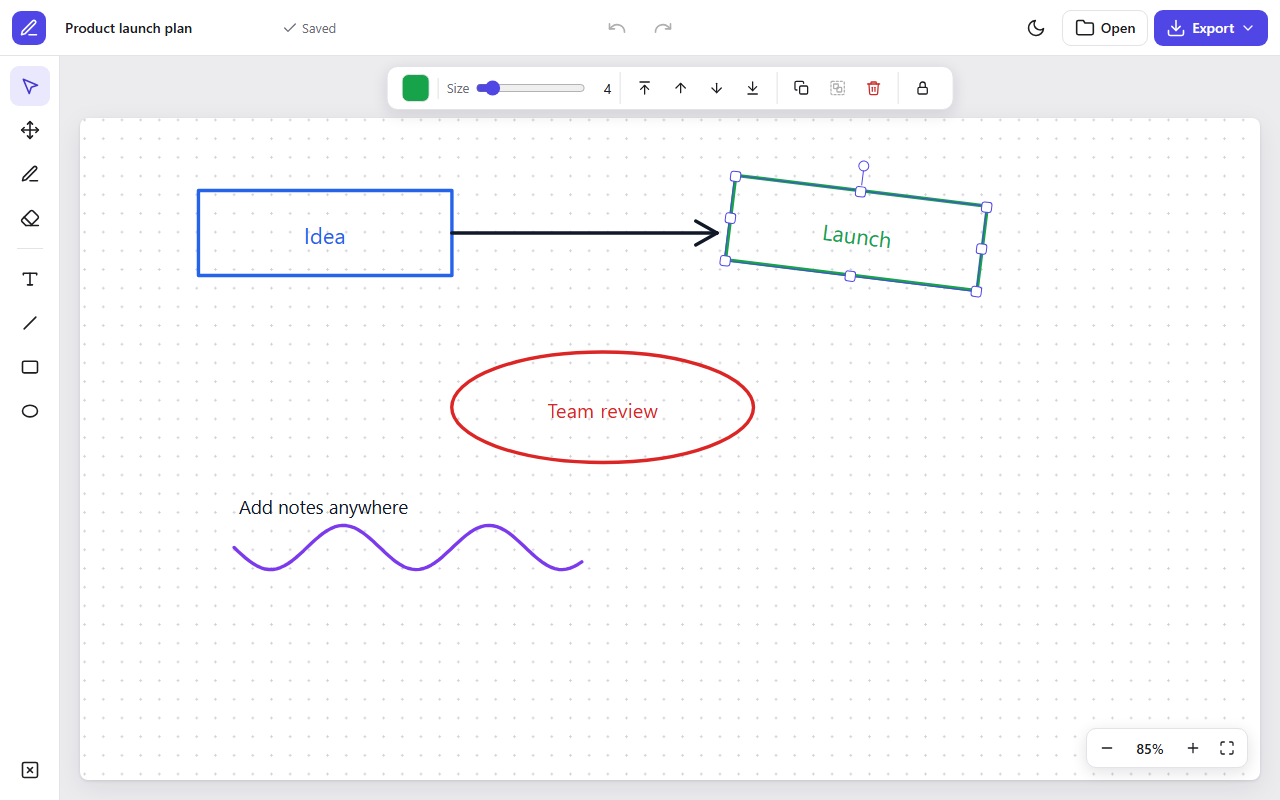
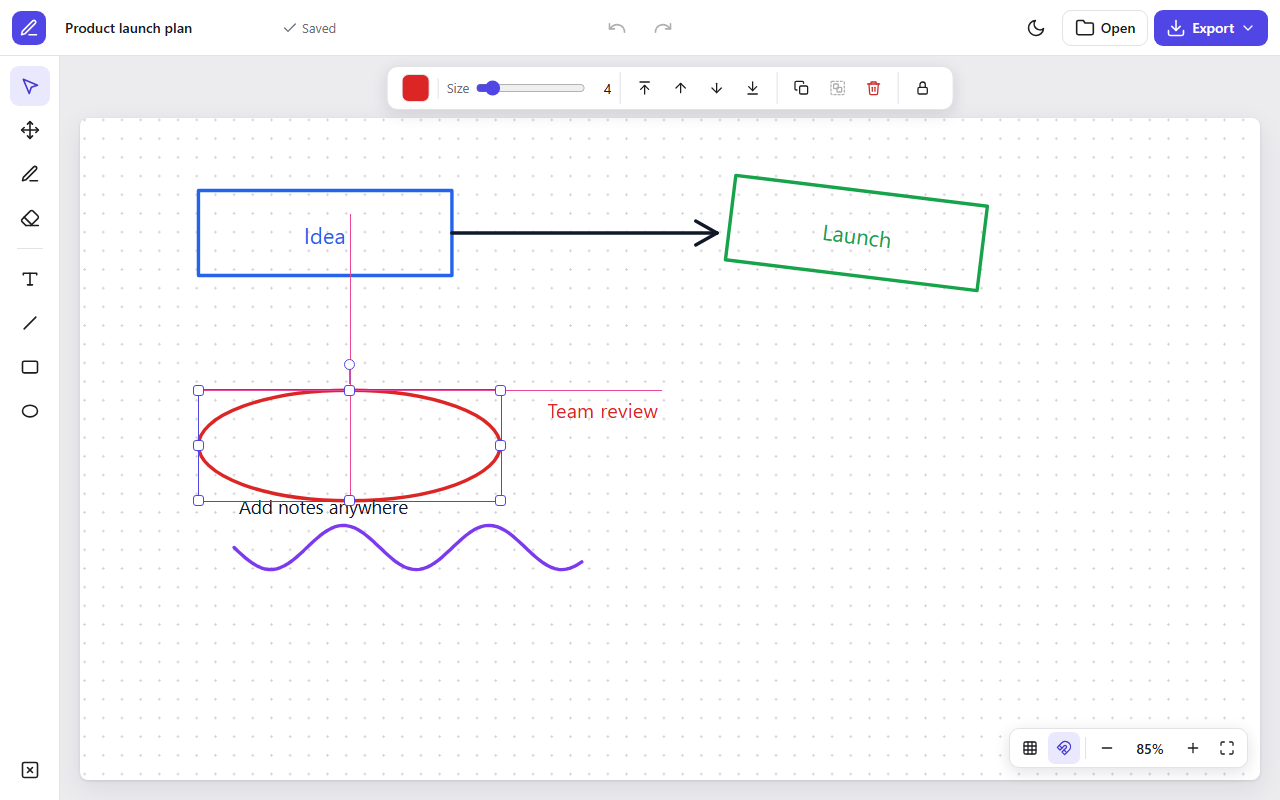
Update README for precision tools and new file structure

diff --git a/README.md b/README.md
@@ -27,6 +27,9 @@ A whiteboard that runs entirely in the browser. Sketch with a pen or shapes, pla
 - **Duplicate, copy and paste:** works on single objects and whole groups
 - **Undo and redo:** up to 100 steps, covering every change to the board
 - **Autosave:** the board is restored when you come back, using your browser's local storage
+- **Snapping and guides:** objects snap to each other's edges and centres while you move or resize them, with guide lines showing what lines up
+- **Align and distribute:** line up a selection or even out its spacing, with groups treated as single pieces
+- **Optional grid:** show a grid that objects and shapes snap to
 - **Large canvas:** pan in any direction, zoom from 10% to 400%, and fit everything on screen in one click
 - **Export and open:** save the whole board as a PNG image, or as a JSON file you can open again later
 - **Mouse and touch:** works with a mouse, a stylus or a finger, with pinch to zoom on phones and tablets
@@ -48,6 +51,7 @@ A whiteboard that runs entirely in the browser. Sketch with a pen or shapes, pla
 | <kbd>Ctrl</kbd> + <kbd>0</kbd> | Reset to 100% |
 | <kbd>Shift</kbd> + <kbd>1</kbd> | Fit everything on screen |
 | Scroll, or hold <kbd>Space</kbd> and drag | Pan |
+| <kbd>Ctrl</kbd> while moving, resizing or drawing | Skip snapping |
 | <kbd>Shift</kbd> while resizing | Keep proportions |
 | <kbd>Shift</kbd> while rotating | Snap to 15° steps |
 | <kbd>Delete</kbd> or <kbd>Backspace</kbd> | Delete the selection |
@@ -71,11 +75,37 @@ The board is stored as plain data: one list of objects, ordered from back to fro
 
 ```
 Interactive-white-board/
-├── index.html    # Editor layout, icons and selection handles
-├── style.css     # Themes, editor layout and responsive rules
-├── script.js     # Board data, editing, undo and saving
-└── docs/         # Screenshot for this README
+├── index.html              # Editor layout, icons and the order files load in
+├── css/
+│   ├── theme.css           # Colours for the light and dark themes
+│   ├── base.css            # Page basics and icons
+│   ├── buttons.css         # Shared button styles
+│   ├── topbar.css          # Top bar and export menu
+│   ├── layout.css          # Tool rail and work area
+│   ├── board.css           # The board, objects, selection handles and guides
+│   ├── panels.css          # Floating options, align menu, zoom controls and messages
+│   ├── tooltips.css        # Tooltips
+│   └── responsive.css      # Phone layout and reduced motion
+├── js/
+│   ├── dom.js              # References to page elements
+│   ├── constants.js        # Fixed values such as limits and sizes
+│   ├── state.js            # The board data and what the user is doing
+│   ├── helpers.js          # Geometry and small shared functions
+│   ├── shapes.js           # Drawing tools and the eraser
+│   ├── render.js           # Drawing the page, undo and redo
+│   ├── selection.js        # Selecting, layers, groups, locks and copy/paste
+│   ├── text-editing.js     # Editing text in place
+│   ├── transforms.js       # Moving, resizing, rotating and rubber-band selection
+│   ├── snapping.js         # Snapping, guides, grid, align and distribute
+│   ├── camera.js           # Panning, zooming and pinch
+│   ├── preferences.js      # Board name, theme and menus
+│   ├── storage.js          # Autosave, open, and PNG and JSON export
+│   ├── input.js            # Mouse, touch, keyboard and button wiring
+│   └── main.js             # Starts the app
+└── docs/                   # Screenshot for this README
 ```
+
+The scripts are plain files that share one scope and load in the order listed in `index.html`, so there's no build step and the page still works when opened directly from disk.
 
 ## License
 
